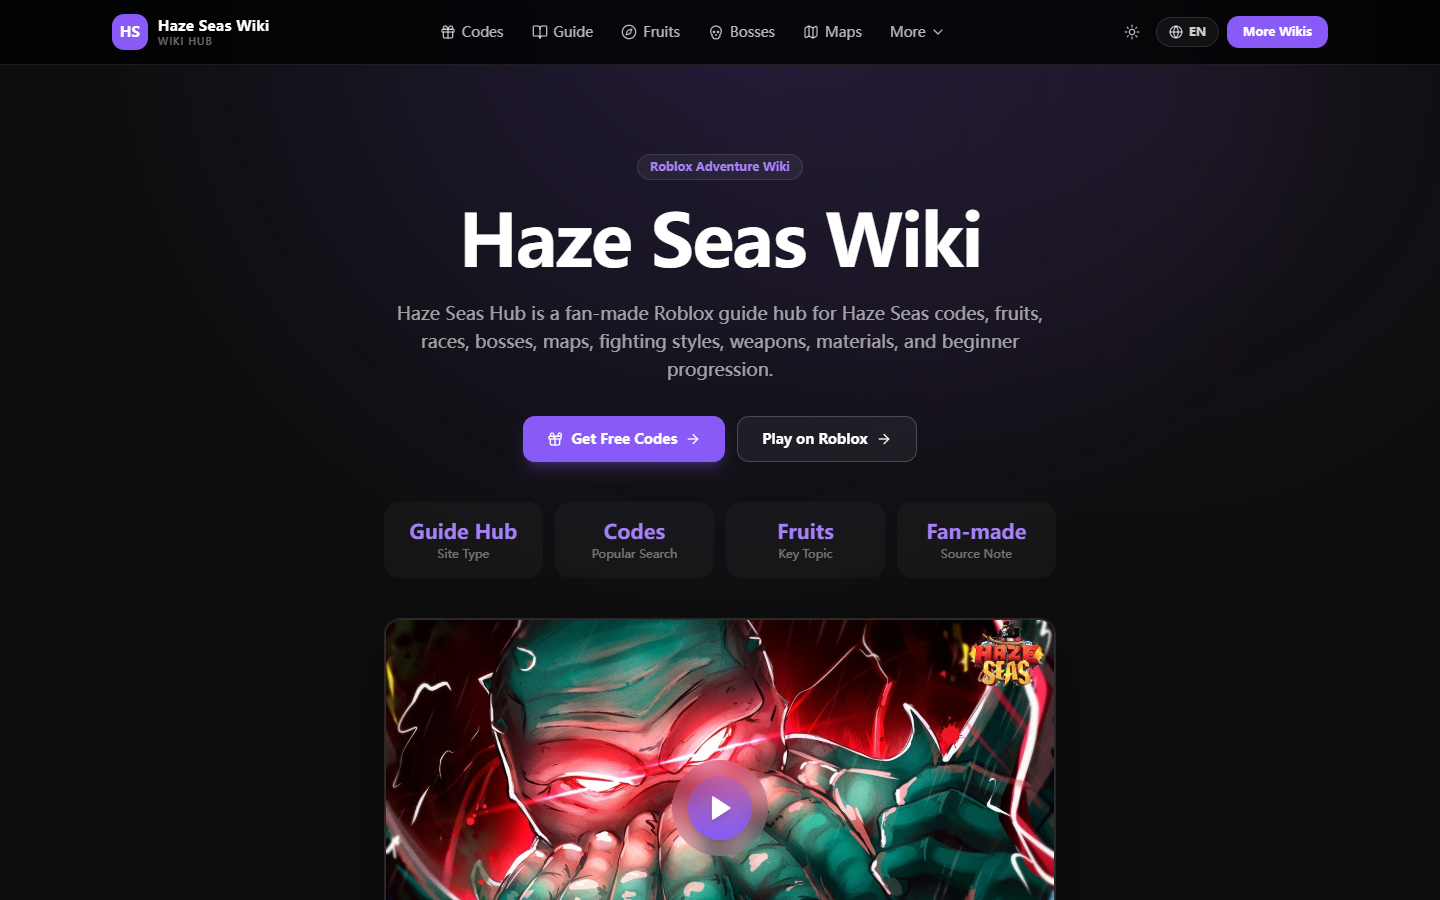
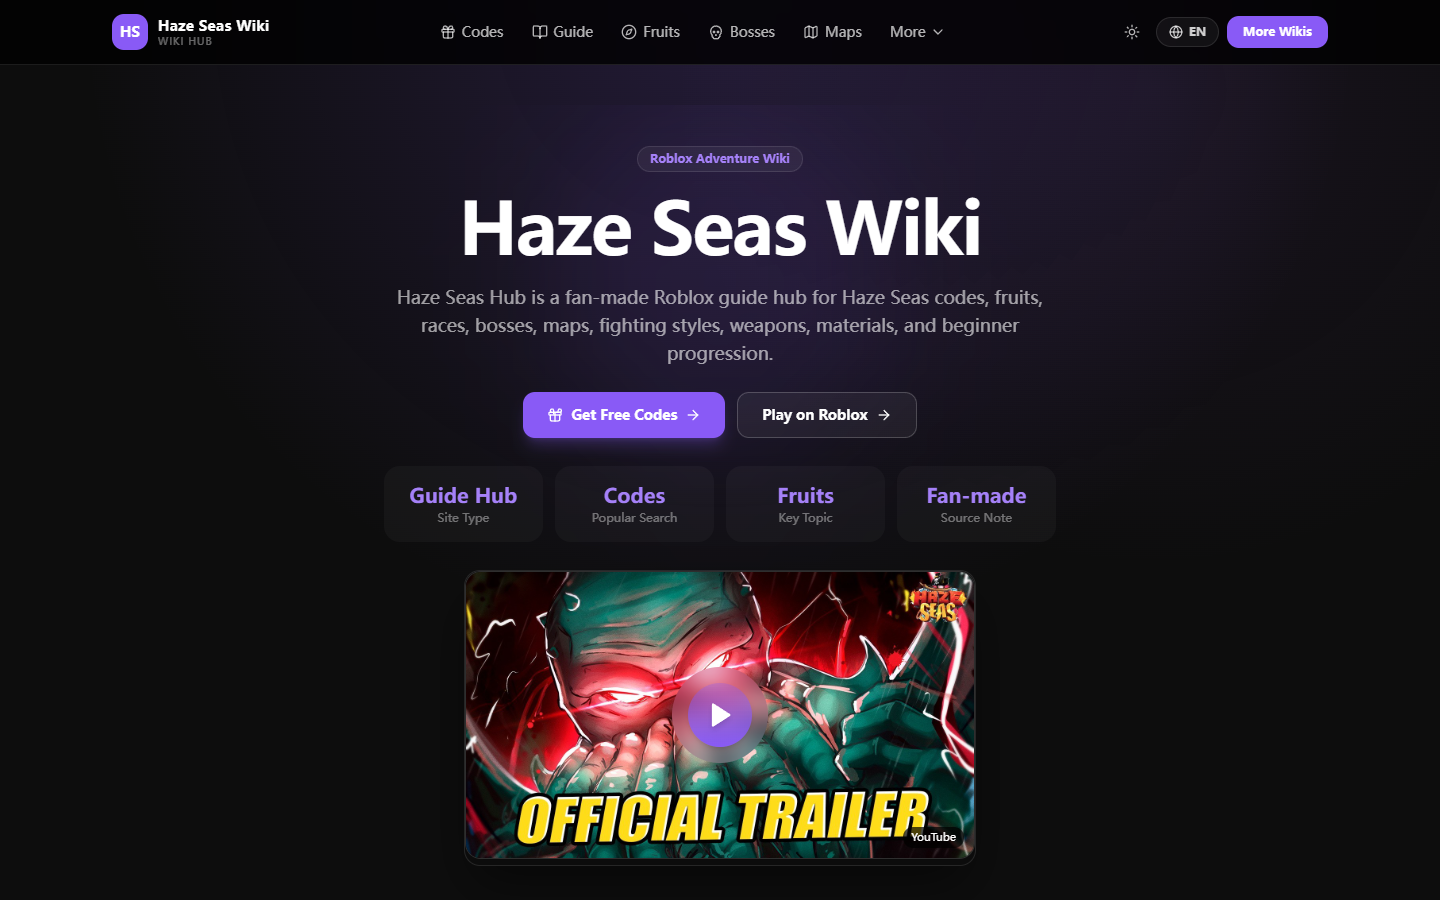
feat: polish cards and hero layout to match reference site
- Reduce hero background glow and trailer size
- Add gradient thumbnail headers to Latest Updates cards
- Use colored icon backgrounds consistently across Resources, Official Links, Progression, Step Guide
- Use translucent purple step numbers in Codes section
- Update screenshots

Changed region(s): [[0.25, 0.1556, 0.75, 1.0], [0.5312, 0.5289, 0.5938, 0.6222]]

diff --git a/src/components/home/LatestUpdates.tsx b/src/components/home/LatestUpdates.tsx
@@ -2,12 +2,40 @@
 
 import { useState } from "react";
 import Link from "next/link";
-import { ChevronRight, ArrowRight } from "lucide-react";
+import { ChevronRight, ArrowRight, Gift, BookOpen, Compass, Skull, Map, Zap, Users, Sword, Package, Link2, Sparkles } from "lucide-react";
 import { LATEST_UPDATES } from "@/data/home";
 import { Badge } from "@/components/ui/badge";
 
 const cardClass =
-  "group flex flex-col overflow-hidden rounded-2xl border border-white/10 bg-slate-900/60 p-4 transition-all duration-200 hover:border-[hsl(var(--nav-theme))]/50 hover:-translate-y-1 hover:bg-slate-900/80 sm:p-5";
+  "group relative flex flex-col overflow-hidden rounded-2xl border border-white/10 bg-slate-900/60 transition-all duration-200 hover:border-[hsl(var(--nav-theme))]/50 hover:-translate-y-1 hover:bg-slate-900/80";
+
+const CATEGORY_COLORS: Record<string, string> = {
+  codes: "from-emerald-500/20 to-emerald-900/20",
+  official: "from-blue-500/20 to-blue-900/20",
+  guide: "from-purple-500/20 to-purple-900/20",
+  fruits: "from-amber-500/20 to-amber-900/20",
+  skills: "from-rose-500/20 to-rose-900/20",
+  races: "from-cyan-500/20 to-cyan-900/20",
+  bosses: "from-red-500/20 to-red-900/20",
+  maps: "from-sky-500/20 to-sky-900/20",
+  weapons: "from-orange-500/20 to-orange-900/20",
+  materials: "from-teal-500/20 to-teal-900/20",
+  updates: "from-indigo-500/20 to-indigo-900/20",
+};
+
+const CATEGORY_ICONS: Record<string, React.ElementType> = {
+  codes: Gift,
+  official: Link2,
+  guide: BookOpen,
+  fruits: Compass,
+  skills: Zap,
+  races: Users,
+  bosses: Skull,
+  maps: Map,
+  weapons: Sword,
+  materials: Package,
+  updates: Sparkles,
+};
 
 export function LatestUpdates() {
   const [showAll, setShowAll] = useState(false);
@@ -23,26 +51,35 @@ export function LatestUpdates() {
       </div>
 
       <div className="grid gap-4 sm:grid-cols-2 lg:grid-cols-3">
-        {displayed.map((item) => (
-          <Link key={item.href + item.title} href={item.href} className={cardClass}>
-            <div className="mb-3 flex items-center justify-between gap-3">
-              <Badge
-                variant="outline"
-                className="border-white/10 bg-white/5 text-[10px] font-medium uppercase tracking-wider text-white/60"
-              >
-                {item.category}
-              </Badge>
-              <span className="shrink-0 text-xs text-white/30">{item.date}</span>
-            </div>
-            <h3 className="font-bold text-white group-hover:text-[hsl(var(--nav-theme-light))]">
-              {item.title}
-            </h3>
-            <p className="mt-2 flex-1 text-sm leading-5 text-white/50">{item.description}</p>
-            <div className="mt-4 flex items-center gap-1 text-xs font-semibold text-[hsl(var(--nav-theme-light))]">
-              Read more <ChevronRight className="h-3 w-3 transition group-hover:translate-x-0.5" />
-            </div>
-          </Link>
-        ))}
+        {displayed.map((item) => {
+          const Icon = CATEGORY_ICONS[item.category] || Sparkles;
+          const gradient = CATEGORY_COLORS[item.category] || CATEGORY_COLORS.updates;
+          return (
+            <Link key={item.href + item.title} href={item.href} className={cardClass}>
+              <div className={`flex h-32 items-center justify-center bg-gradient-to-br ${gradient}`}>
+                <Icon className="h-10 w-10 text-white/70" />
+              </div>
+              <div className="p-5">
+                <div className="mb-3 flex items-center justify-between gap-3">
+                  <Badge
+                    variant="outline"
+                    className="border-white/10 bg-white/5 text-[10px] font-semibold uppercase tracking-wider text-white/60"
+                  >
+                    {item.category}
+                  </Badge>
+                  <span className="shrink-0 text-xs text-white/30">{item.date}</span>
+                </div>
+                <h3 className="font-bold text-white group-hover:text-[hsl(var(--nav-theme-light))]">
+                  {item.title}
+                </h3>
+                <p className="mt-2 text-sm leading-5 text-white/50">{item.description}</p>
+                <div className="mt-4 flex items-center gap-1 text-xs font-semibold text-[hsl(var(--nav-theme-light))]">
+                  Read more <ChevronRight className="h-3 w-3 transition group-hover:translate-x-0.5" />
+                </div>
+              </div>
+            </Link>
+          );
+        })}
       </div>
 
       {!showAll && LATEST_UPDATES.length > 6 && (

diff --git a/src/components/home/HeroSection.tsx b/src/components/home/HeroSection.tsx
@@ -7,13 +7,13 @@ import { HERO } from "@/data/home";
 
 export function HeroSection() {
   return (
-    <section className="relative overflow-hidden px-6 pb-10 pt-8 text-center sm:pb-12 sm:pt-10 lg:pb-16 lg:pt-12">
+    <section className="relative overflow-hidden px-6 pb-8 pt-8 text-center sm:pb-10 sm:pt-10 lg:pb-12">
       {/* Background glows */}
       <div className="absolute inset-0 pointer-events-none">
-        <div className="absolute left-1/2 top-0 h-[30rem] w-[30rem] -translate-x-1/2 rounded-full bg-[hsl(var(--nav-theme))]/18 blur-3xl" />
+        <div className="absolute left-1/2 top-0 h-[22rem] w-[22rem] -translate-x-1/2 rounded-full bg-[hsl(var(--nav-theme))]/10 blur-3xl" />
       </div>
 
-      <div className="relative mx-auto max-w-3xl space-y-6">
+      <div className="relative mx-auto max-w-3xl space-y-5">
         <div className="inline-flex items-center gap-2 rounded-full border border-white/10 bg-white/5 px-3 py-1 text-xs font-semibold text-[hsl(var(--nav-theme-light))]">
           {HERO.badge}
         </div>
@@ -26,7 +26,7 @@ export function HeroSection() {
           {HERO.description}
         </p>
 
-        <div className="flex flex-col justify-center gap-3 pt-2 sm:flex-row">
+        <div className="flex flex-col justify-center gap-3 pt-1 sm:flex-row">
           <Link
             href={HERO.primaryCta.href}
             className="inline-flex items-center justify-center gap-2 rounded-xl bg-[hsl(var(--nav-theme))] px-6 py-3 text-sm font-semibold text-white shadow-lg shadow-[hsl(var(--nav-theme))]/25 transition hover:brightness-110"
@@ -45,7 +45,7 @@ export function HeroSection() {
         </div>
 
         {/* Stats row */}
-        <div className="mx-auto grid max-w-2xl grid-cols-2 gap-3 pt-4 sm:grid-cols-4">
+        <div className="mx-auto grid max-w-2xl grid-cols-2 gap-3 pt-2 sm:grid-cols-4">
           {HERO.stats.map((stat) => (
             <div
               key={stat.label}
@@ -58,12 +58,9 @@ export function HeroSection() {
         </div>
 
         {/* Trailer card */}
-        <div className="relative mx-auto max-w-2xl pt-4">
+        <div className="relative mx-auto max-w-md pt-2 sm:max-w-lg">
           <div className="overflow-hidden rounded-2xl border border-white/10 shadow-2xl shadow-black/50">
             <TrailerButton videoId="uLhv4-5NRCc" />
-          </div>
-          <div className="absolute -bottom-3 -right-3 rounded-xl border border-white/10 bg-[hsl(var(--nav-theme))]/20 px-3 py-1.5 backdrop-blur-sm">
-            <p className="text-xs font-semibold text-[hsl(var(--nav-theme-light))]">Official Trailer</p>
           </div>
         </div>
       </div>

diff --git a/src/components/home/ResourceCards.tsx b/src/components/home/ResourceCards.tsx
@@ -8,7 +8,7 @@ const ICON_MAP: Record<string, React.ElementType> = {
 };
 
 const cardClass =
-  "group relative flex flex-col overflow-hidden rounded-2xl border border-white/10 bg-slate-900/60 p-4 transition-all duration-200 hover:border-[hsl(var(--nav-theme))]/50 hover:-translate-y-1 hover:bg-slate-900/80 sm:p-5";
+  "group relative flex flex-col overflow-hidden rounded-2xl border border-white/10 bg-slate-900/60 p-5 transition-all duration-200 hover:border-[hsl(var(--nav-theme))]/50 hover:-translate-y-1 hover:bg-slate-900/80";
 
 export function ResourceCards() {
   return (
@@ -25,7 +25,7 @@ export function ResourceCards() {
           const Icon = ICON_MAP[card.icon] || Link2;
           return (
             <Link key={card.href} href={card.href} className={cardClass}>
-              <div className="mb-4 flex h-10 w-10 items-center justify-center rounded-xl bg-white/5">
+              <div className="mb-4 flex h-11 w-11 items-center justify-center rounded-xl bg-[hsl(var(--nav-theme))]/15">
                 <Icon className="h-5 w-5 text-[hsl(var(--nav-theme-light))]" />
               </div>
               <h3 className="font-bold text-white">{card.title}</h3>

diff --git a/src/components/home/ProgressionSection.tsx b/src/components/home/ProgressionSection.tsx
@@ -27,7 +27,7 @@ export function ProgressionSection() {
           const Icon = ICON_MAP[iconKey] || Skull;
           return (
             <Link key={card.href + card.title} href={card.href} className={cardClass}>
-              <div className="mb-4 flex h-10 w-10 items-center justify-center rounded-xl bg-white/5">
+              <div className="mb-4 flex h-11 w-11 items-center justify-center rounded-xl bg-[hsl(var(--nav-theme))]/15">
                 <Icon className="h-5 w-5 text-[hsl(var(--nav-theme-light))]" />
               </div>
               <h3 className="font-bold text-white group-hover:text-[hsl(var(--nav-theme-light))]">

diff --git a/src/components/home/CodesSection.tsx b/src/components/home/CodesSection.tsx
@@ -79,7 +79,7 @@ export function CodesSection() {
       <div className="grid gap-4 sm:grid-cols-2 lg:grid-cols-4">
         {CODES_SECTION.steps.map((step, i) => (
           <div key={step.label} className={cardClass}>
-            <span className="grid h-8 w-8 place-items-center rounded-full bg-[hsl(var(--nav-theme))] text-sm font-bold text-white">
+            <span className="grid h-8 w-8 place-items-center rounded-full bg-[hsl(var(--nav-theme))]/15 text-sm font-bold text-[hsl(var(--nav-theme-light))]">
               {i + 1}
             </span>
             <h3 className="mt-4 font-bold text-white">{step.label}</h3>

diff --git a/src/components/home/StepGuideSection.tsx b/src/components/home/StepGuideSection.tsx
@@ -19,7 +19,7 @@ export function StepGuideSection() {
         {BEGINNER_STEPS.map((step, i) => (
           <div key={step.label} className={cardClass}>
             <div className="flex items-center gap-3">
-              <span className="grid h-8 w-8 place-items-center rounded-full bg-[hsl(var(--nav-theme))] text-sm font-bold text-white">
+              <span className="grid h-8 w-8 place-items-center rounded-full bg-[hsl(var(--nav-theme))]/15 text-sm font-bold text-[hsl(var(--nav-theme-light))]">
                 {i + 1}
               </span>
               <h3 className="font-bold text-white">{step.label}</h3>

diff --git a/src/components/home/OfficialLinksSection.tsx b/src/components/home/OfficialLinksSection.tsx
@@ -32,7 +32,7 @@ export function OfficialLinksSection() {
               aria-label={link.ariaLabel}
               className={cardClass}
             >
-              <div className="flex h-10 w-10 shrink-0 items-center justify-center rounded-xl bg-white/5">
+              <div className="flex h-11 w-11 shrink-0 items-center justify-center rounded-xl bg-[hsl(var(--nav-theme))]/15">
                 <Icon className="h-5 w-5 text-[hsl(var(--nav-theme-light))]" />
               </div>
               <div className="flex-1 min-w-0">
